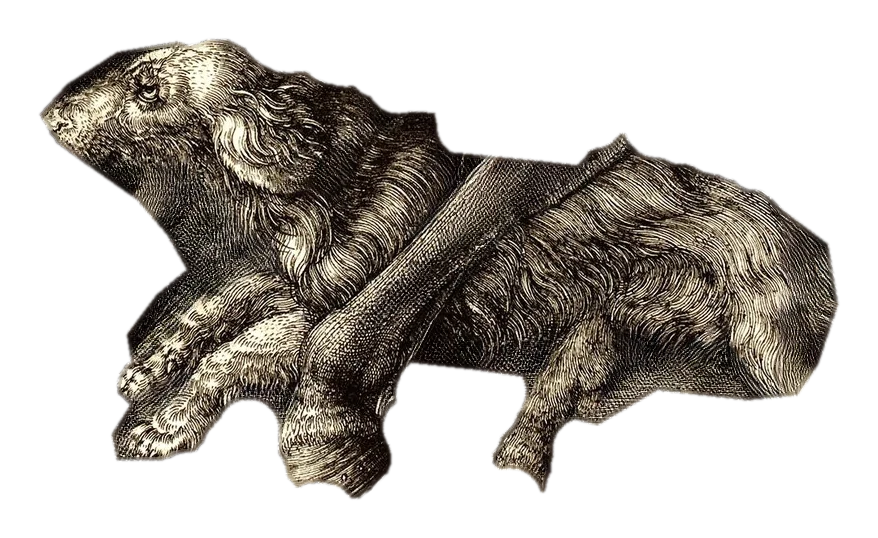
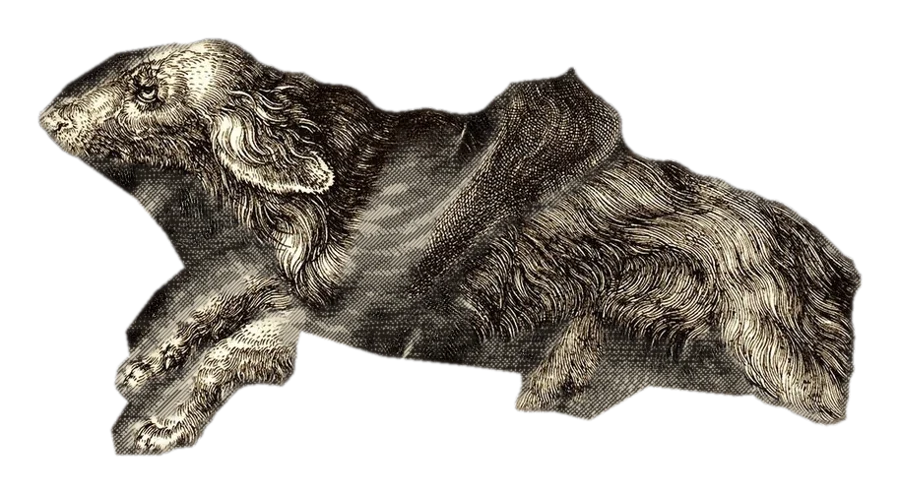
Figures always stand in front of the painted relief; per-painting ground line; sleeping painted animals stay on the deepening relief; camera never shows the picture edge; complete hound (leg occluder, two-part segmentation), engraved re-hatching of inpainted Dürer areas

diff --git a/js/gallery.js b/js/gallery.js
@@ -199,11 +199,12 @@ export class Gallery {
       const a = new Character(sprite, { height: hh, headSide: host.faces });
       a.shadow.visible = false;
       this.paintGroup.add(a.group); this.paintGroup.add(a.shadow);
-      const home = this.paintPoint((bx0 + bx1) / 2 / W, 1 - by1 / H, 0.004);
+      const homeUV = [(bx0 + bx1) / 2 / W, 1 - by1 / H];
+      const home = this.paintPoint(homeUV[0], homeUV[1], 0.004);
       a.position.copy(home);
       a.setDir(host.faces === 'right' ? 1 : -1, true);
       a.mesh.renderOrder = 3;
-      this.hosts.push({ actor: a, host, meta, home, awake: false, away: false, next: rand(2, 5), patch: null });
+      this.hosts.push({ actor: a, host, meta, home, homeUV, awake: false, away: false, next: rand(2, 5), patch: null });
     }
 
     // ---- loop --------------------------------------------------------------
@@ -325,7 +326,12 @@ export class Gallery {
     want.y = THREE.MathUtils.clamp(want.y, cy - Math.max(0, this.ph / 2 * 0.92 - halfH), cy + Math.max(0, this.ph / 2 * 0.92 - halfH));
     want.x += px.x * 0.04; want.y += px.y * 0.03;                     // a touch of head parallax
     cam.position.lerp(want, 0.08);
-    this.lookAtPt = (this.lookAtPt || T.clone()).lerp(new THREE.Vector3(T.x, T.y, T.z - 0.15), 0.12);
+    // look at the animal, but never tilt so far that the edge of the picture shows
+    const lyMin = cy - this.ph / 2 + halfH * 0.95, lyMax = cy + this.ph / 2 - halfH * 0.95;
+    const ly = lyMin < lyMax ? THREE.MathUtils.clamp(T.y, lyMin, lyMax) : cy;
+    const lxMin = cx - this.pw / 2 + halfW * 0.95, lxMax = cx + this.pw / 2 - halfW * 0.95;
+    const lx = lxMin < lxMax ? THREE.MathUtils.clamp(T.x, lxMin, lxMax) : cx;
+    this.lookAtPt = (this.lookAtPt || T.clone()).lerp(new THREE.Vector3(lx, ly, T.z - 0.15), 0.12);
     cam.lookAt(this.lookAtPt);
   }
 
@@ -402,6 +408,7 @@ export class Gallery {
     this.revealGround(h);
     h.actor.ground = (x, z) => this.groundY(z);
     h.actor.shadow.visible = true;
+    h.actor.walkTo(this.spot(h.actor.position.x, h.actor.position.z + 0.1, h.actor), 0.35);
   }
   async hostsRefuse() {}
 
@@ -429,7 +436,14 @@ export class Gallery {
     const h0 = v.height, ref = this.hosts.find(h => !h.host.inPlace)?.actor.height ?? this.ph * 0.15;
     const h1 = Math.max(0.1, Math.min(Math.max(ref * 0.9, this.ph * 0.1), this.ph * 0.15));   // the size of the painted animals
     // keep walking forward, into the depth of the picture (away from you)
-    const inside = new THREE.Vector3(-0.1, this.groundY(-0.22), -0.22);
+    // the deepest place the painting lets you reach (measured on the relief as it will be inside)
+    const keep = this.paintU.uDepth.value, hNow = v.height; this.paintU.uDepth.value = depth1; v.setHeight(h1);
+    let inside = null;
+    for (const tx of [-0.1, 0.1, -0.3, 0.3, -0.5, 0.5]) {
+      const sp = this.spot(tx, -0.3, v);
+      if (!inside || sp.z < inside.z - 0.03) inside = sp;
+    }
+    this.paintU.uDepth.value = keep; v.setHeight(hNow);
     v.walkTo(inside, 0.22);
     this.keyLight.intensity = 0;
     await this.tween(3.6, e => {
@@ -439,6 +453,7 @@ export class Gallery {
       this.paintGroup.position.z = -e * recede;
       v.setHeight(h0 + (h1 - h0) * e);
       this.keyLight.intensity = e * 1.6;
+      for (const h of this.hosts) if (!h.awake) h.actor.position.z = this.paintPoint(h.homeUV[0], h.homeUV[1], 0.004).z;
     });
     v.setPaintAll?.(1);
     this.paintU.uWind.value = 1;             // inside, the picture breathes
@@ -447,8 +462,29 @@ export class Gallery {
     await this.wait(1.5);
   }
 
+  // depth of the painted surface (the relief) at a point of the picture, in local units
+  surfaceZ(x, y) {
+    const u = THREE.MathUtils.clamp(x / this.pw + 0.5, 0, 1), v = THREE.MathUtils.clamp(y / this.ph + 0.5, 0, 1);
+    return this.paintPoint(u, v).z;
+  }
+  // a spot where a figure of width w and height h can stand at x, as deep as `zWant`
+  // but always in front of whatever is painted there (never inside the relief)
+  spot(x, zWant, a) {
+    const w = this.widthOf(a), h = a.height;
+    x = THREE.MathUtils.clamp(x, -this.pw / 2 + w / 2 + 0.04, this.pw / 2 - w / 2 - 0.04);
+    let z = zWant;
+    for (let pass = 0; pass < 3; pass++) {
+      const y = this.groundY(z);
+      let front = -1e9;
+      for (const fx of [-0.45, 0, 0.45]) for (const fy of [0.05, 0.5, 0.95]) front = Math.max(front, this.surfaceZ(x + fx * w, y + fy * h));
+      z = Math.max(z, front + 0.05);
+    }
+    z = Math.min(z, 0.45);
+    return new THREE.Vector3(x, this.groundY(z), z);
+  }
+
   // a believable "ground" inside the picture: further back is higher up
-  groundY(z) { return -this.ph / 2 + this.ph * 0.22 + (0.4 - z) * 0.22; }
+  groundY(z) { const [g0, rise] = this.o.work.ground || [0.2, 0.22]; return -this.ph / 2 + this.ph * g0 + (0.4 - z) * rise; }
   randomGround() {
     const z = rand(-this.paintU.uDepth.value * 0.55, 0.4);
     return new THREE.Vector3(rand(-this.pw / 2 + 0.25, this.pw / 2 - 0.25), this.groundY(z), z);
@@ -477,7 +513,7 @@ export class Gallery {
       // side by side on the same ground, just a little in front of / behind in turn (no floating)
       const tz = THREE.MathUtils.clamp(vp.z + (k % 2 ? 0.07 : -0.07), -this.paintU.uDepth.value * 0.6, 0.42);
       tx = THREE.MathUtils.clamp(tx, -this.pw / 2 + w / 2, this.pw / 2 - w / 2);
-      const target = new THREE.Vector3(tx, this.groundY(tz), tz);
+      const target = this.spot(tx, tz, a);
       const d = target.distanceTo(a.position);
       if (d > 0.12 && (!a.target || a.target.distanceTo(target) > 0.18)) { h.placed = false; a.walkTo(target, d > 0.7 ? 0.9 : 0.4, { run: d > 0.7 }).then(() => { h.placed = true; }); }
       else if (!a.target) h.placed = true;
@@ -509,9 +545,8 @@ export class Gallery {
     const v = this.visitor, a = h.actor, vp = v.position.clone();
     const side = Math.sign(a.position.x - vp.x) || 1, gap = (this.widthOf(v) + this.widthOf(a)) / 2 + 0.1;
     const mid = vp.clone().lerp(a.position, 0.35);
-    const vT = new THREE.Vector3(mid.x - side * gap * 0.5, 0, THREE.MathUtils.clamp(mid.z, -this.paintU.uDepth.value * 0.5, 0.42));
-    vT.y = this.groundY(vT.z);
-    const aT = new THREE.Vector3(vT.x + side * gap, 0, vT.z - 0.04); aT.y = this.groundY(aT.z);
+    const vT = this.spot(mid.x - side * gap * 0.5, mid.z, v);
+    const aT = this.spot(vT.x + side * gap, vT.z - 0.04, a);
     h.meeting = true;
     await Promise.all([v.walkTo(vT, 0.35), a.walkTo(aT, 0.35)]);
     a.lastFlip = -9; a.setDir(-side); v.setDir(side);
@@ -527,10 +562,10 @@ export class Gallery {
     const z = THREE.MathUtils.clamp(vp.z - 0.35, -this.paintU.uDepth.value * 0.5, 0.4);
     const x = THREE.MathUtils.clamp(vp.x + (vp.x > 0 ? -0.5 : 0.5), -this.pw / 2 + 0.25, this.pw / 2 - 0.25);
     h.called = true;
-    const dest = new THREE.Vector3(x, this.groundY(z), z);
+    const dest = this.spot(x, z, h.actor);
     const go = h.actor.walkTo(dest, 0.35);
     await this.wait(0.7);
-    const follow = dest.clone(); follow.x += vp.x > x ? 0.3 : -0.3; follow.z += 0.12; follow.y = this.groundY(follow.z);
+    const follow = this.spot(dest.x + (vp.x > x ? 1 : -1) * (this.widthOf(h.actor) + this.widthOf(this.visitor)) / 2 * 1.2, dest.z + 0.08, this.visitor);
     await Promise.all([go, this.visitor.walkTo(follow, 0.35)]);
     h.actor.setDir(Math.sign(this.visitor.position.x - h.actor.position.x) || 1);
     h.called = false;
@@ -556,16 +591,16 @@ export class Gallery {
     const local = this.paintGroup.worldToLocal(hit.clone());
     local.x = THREE.MathUtils.clamp(local.x, -this.pw / 2 + 0.2, this.pw / 2 - 0.2);
     local.z = THREE.MathUtils.clamp(local.z, -this.paintU.uDepth.value * 0.6, 0.45);
-    local.y = this.groundY(local.z);
-    this.visitor.walkTo(local, 0.55, { run: local.distanceTo(this.visitor.position) > 0.8 });
+    const dest = this.spot(local.x, local.z, this.visitor);
+    this.visitor.walkTo(dest, 0.55, { run: dest.distanceTo(this.visitor.position) > 0.8 });
   }
   // call a painted animal: it comes to the visitor
   async callHost(i) {
     const h = this.hosts[i];
     if (!h || h.host.inPlace) { h?.actor.nod(2); return; }
     h.called = true;
-    const p = this.visitor.position.clone();
-    p.x += p.x > 0 ? -0.3 : 0.3; p.y = this.groundY(p.z);
+    const vp0 = this.visitor.position;
+    const p = this.spot(vp0.x + (vp0.x > 0 ? -1 : 1) * (this.widthOf(this.visitor) + this.widthOf(h.actor)) / 2 * 1.2, vp0.z, h.actor);
     await h.actor.walkTo(p, 0.8, { run: true });
     h.actor.setDir(Math.sign(this.visitor.position.x - p.x) || 1);
     h.actor.nod(2);

diff --git a/js/data.js b/js/data.js
@@ -11,6 +11,7 @@ export const WORKS = [
     size: [2400, 1550], realWidth: 2.3,
     hosts: ['eden-lion', 'eden-horse', 'eden-deer', 'eden-rabbit', 'eden-dog', 'eden-peacock'],
     kinds: ['lion', 'tiger', 'horse', 'deer', 'dog', 'cat', 'rabbit', 'cattle', 'bird'],   // animal kinds painted in it
+    ground: [0.2, 0.22],      // where the painted ground is: height (fraction of the picture) at the front, rise with depth
     wall: 0x2a2622,
   },
   {
@@ -21,6 +22,7 @@ export const WORKS = [
     size: [1847, 2400], realWidth: 1.45,
     hosts: ['durer-horse', 'durer-dog'],
     kinds: ['horse', 'dog'],
+    ground: [0.035, 0.08],    // the road runs along the bottom edge
     wall: 0x24231f,
   },
   {
@@ -31,6 +33,7 @@ export const WORKS = [
     size: [2385, 1783], realWidth: 2.4,
     hosts: ['marc-deer', 'marc-boar'],
     kinds: ['deer'],
+    ground: [0.06, 0.14],
     wall: 0x22252a,
   },
 ];

diff --git a/js/strings.js b/js/strings.js
@@ -219,6 +219,7 @@ export const STRINGS = {
     openShy: 'Oh! Um… hello. Nobody has ever walked in here before.',
     openSorry: 'Hello! I’m {name}. I’m sorry, I didn’t mean to scare you.',
     openWhisper: 'Is it… friendly?',
+    openWhisperSolo: 'Are you… friendly?',
     openFriendly: 'Very friendly! I just wanted to see your world.',
     openFollow: 'Then come, I’ll show you around. Follow me!',
     openOkay: 'Okay, I’m right behind you!',

diff --git a/js/app.js b/js/app.js
@@ -485,7 +485,7 @@ async function insideStory(g, tok) {
   await speak(0, t('insideStartled'));
   await speak(0, t('openShy'));
   await speak('visitor', t('openSorry'));
-  await speak(B, t('openWhisper'));
+  await speak(B, t(H > 1 ? 'openWhisper' : 'openWhisperSolo'));
   await speak('visitor', t('openFriendly'));
   for (let i = 0; i < H; i++) { g.wakeHost(i); await sleep(400); }
   state.hostAwake = true;

diff --git a/tools/segment_hosts.py b/tools/segment_hosts.py
@@ -63,14 +63,18 @@ HOSTS = {
                       "neg": [[560, 750], [150, 1550], [1450, 950], [1000, 1950], [100, 2100]]},
     "durer-dog":     {"work": "durer", "box": [820, 1730, 1600, 2200], "close": 61,
                       "pos": [[920, 1800], [1080, 1880], [1110, 1990], [975, 2100], [1450, 1980], [1350, 1920]],
-                      "neg": [[910, 2010], [1200, 2000], [1150, 2150], [1330, 2180], [760, 1760]],
+                      "neg": [[910, 2010], [1150, 2150], [1330, 2180], [760, 1760]],
                       # the whole hound, traced by hand: SAM finds the visible fur, LaMa paints the rest inside this
                       "complete": [(853, 1830), (880, 1800), (930, 1768), (990, 1758), (1040, 1775), (1100, 1805), (1180, 1840),
                                    (1260, 1868), (1360, 1878), (1470, 1890), (1580, 1915), (1640, 1960), (1650, 2020), (1630, 2080),
                                    (1610, 2110), (1560, 2115), (1470, 2105), (1410, 2140), (1370, 2130), (1360, 2095), (1290, 2085),
                                    (1200, 2075), (1120, 2050), (1080, 2030), (1000, 2045), (975, 2085), (990, 2150), (975, 2175),
                                    (930, 2175), (925, 2150), (950, 2110), (940, 2050), (970, 2010), (1000, 1985), (980, 1950),
-                                   (950, 1915), (900, 1880), (870, 1858)]},
+                                   (950, 1915), (900, 1880), (870, 1858)],
+                      # the horse's front leg and a hoof lie across the hound: cut them out, repaint fur
+                      "occlude": [[(1222, 1838), (1282, 1852), (1182, 2110), (1122, 2098)]],
+                      # its back half reads as a separate shape to SAM: segment it on its own and join
+                      "parts": [{"box": [1270, 1850, 1680, 2130], "pos": [[1450, 1980], [1560, 2000], [1380, 1930]]}]},
     "marc-deer":     {"work": "marc", "box": [940, 690, 1460, 1720], "close": 15},
     "marc-boar":     {"work": "marc", "box": [60, 1120, 820, 1720], "close": 15},
 }
@@ -180,11 +184,15 @@ for hid in (sys.argv[1:] or HOSTS):
     if "clip" in h:                     # hand-traced outline limits the mask
         poly = np.zeros_like(mask); cv2.fillPoly(poly, [np.array(h["clip"], np.int32)], 255)
         mask = mask & cv2.dilate(poly, np.ones((5, 5), np.uint8))
+    for part in h.get("parts", []):     # animals SAM sees as several shapes: join the pieces
+        mask = mask | segment(img, {**h, "box": part["box"], "pos": part["pos"], "neg": part.get("neg", [])})
     if h.get("gc"): mask = grabcut_refine(arr, mask, h.get("pos", []))
-    # keep the largest blob; close small gaps (occluders) into the body
+    # keep the animal's pieces (an occluder can split it in two), drop small specks
     n, lab, st, _ = cv2.connectedComponentsWithStats(mask, 8)
     if n > 1:
-        big = 1 + np.argmax(st[1:, cv2.CC_STAT_AREA]); mask = np.where(lab == big, 255, 0).astype(np.uint8)
+        big = st[1:, cv2.CC_STAT_AREA].max()
+        keep = [i for i in range(1, n) if st[i, cv2.CC_STAT_AREA] >= big * 0.2]
+        mask = np.where(np.isin(lab, keep), 255, 0).astype(np.uint8)
     k = h["close"]
     closed = cv2.morphologyEx(mask, cv2.MORPH_CLOSE, cv2.getStructuringElement(cv2.MORPH_ELLIPSE, (k, k)))
     closed = cv2.morphologyEx(closed, cv2.MORPH_OPEN, np.ones((3, 3), np.uint8))
@@ -192,6 +200,9 @@ for hid in (sys.argv[1:] or HOSTS):
     ff = closed.copy(); hh, ww = ff.shape
     cv2.floodFill(ff, np.zeros((hh + 2, ww + 2), np.uint8), (0, 0), 255)
     closed = closed | cv2.bitwise_not(ff)
+    if "occlude" in h:                  # things painted in front of the animal: not part of it
+        for poly in h["occlude"]:
+            cv2.fillPoly(mask, [np.array(poly, np.int32)], 0)
     if "complete" in h:                 # hidden parts: the traced body becomes the outline
         poly = np.zeros_like(closed); cv2.fillPoly(poly, [np.array(h["complete"], np.int32)], 255)
         closed = closed | poly

diff --git a/tools/engrave_patch.py b/tools/engrave_patch.py
@@ -1,0 +1,72 @@
+"""Re-engrave inpainted areas of the Dürer engraving.
+
+LaMa fills hidden or emptied areas with soft, blurry tone, which looks wrong in an
+engraving where every tone is made of cut lines. This finds the pixels that differ
+from the original print (the repainted parts) and redraws their tone as fine hatching
+in Dürer's manner: parallel lines that follow a gentle curve, cross-hatching in the
+darks, and a little paper showing through.
+
+Usage: python tools/engrave_patch.py
+Updates assets/hosts/durer-*-patch.jpg and assets/hosts/durer-dog.(png|webp) in place.
+"""
+import json
+import numpy as np
+import cv2
+from PIL import Image
+
+HD = np.array(Image.open("assets/paintings/hd/knight-death-devil.jpg").convert("RGB")).astype(np.float32)
+meta = json.load(open("assets/hosts/hosts.json"))
+PAPER = np.array([229, 219, 196], np.float32)
+INK = np.array([34, 29, 24], np.float32)
+
+
+def hatch(lum, x0, y0):
+    """Engraved rendering of a luminance map (0..1), in painting coordinates."""
+    h, w = lum.shape
+    yy, xx = np.mgrid[0:h, 0:w].astype(np.float32)
+    X, Y = xx + x0, yy + y0
+    t = np.clip(lum, 0, 1) ** 0.9
+    wave = np.sin(X / 90.0) * 6                      # lines curve gently, like a burin following form
+    a = np.abs(((X + Y + wave) / 4.2) % 1 - 0.5) * 2
+    b = np.abs(((X - Y - wave + 5000) / 4.8) % 1 - 0.5) * 2
+    c = np.abs(((Y + wave * 0.5) / 5.5) % 1 - 0.5) * 2
+    ink = (a > 0.32 + t * 0.62).astype(np.float32)
+    ink = np.maximum(ink, ((t < 0.5) & (b > 0.42 + t * 1.0)).astype(np.float32))
+    ink = np.maximum(ink, ((t < 0.25) & (c > 0.5 + t * 1.6)).astype(np.float32))
+    ink = cv2.GaussianBlur(ink, (0, 0), 0.6)
+    return PAPER[None, None, :] * (1 - ink[..., None]) + INK[None, None, :] * ink[..., None]
+
+
+def reengrave(img, orig, x0, y0, extra_mask=None):
+    """Redraw only the pixels that were invented by inpainting."""
+    diff = np.abs(img.astype(np.float32) - orig).mean(-1)
+    m = (diff > 16).astype(np.uint8) * 255
+    if extra_mask is not None: m = m & extra_mask
+    m = cv2.morphologyEx(m, cv2.MORPH_OPEN, np.ones((3, 3), np.uint8))
+    m = cv2.dilate(m, np.ones((5, 5), np.uint8))
+    soft = cv2.GaussianBlur(m.astype(np.float32) / 255, (0, 0), 2.5)[..., None]
+    lum = cv2.GaussianBlur(img.astype(np.float32).mean(-1) / 255, (0, 0), 2.0)
+    lum = (lum - 0.1) / 0.8                          # stretch: the soft fill is low in contrast
+    out = img.astype(np.float32) * (1 - soft) + hatch(lum, x0, y0) * soft
+    return np.clip(out, 0, 255).astype(np.uint8), int((m > 0).sum())
+
+
+for hid, e in meta.items():
+    if e["work"] != "durer": continue
+    x0, y0, x1, y1 = e["box"]
+    orig = HD[y0:y1, x0:x1]
+    try:
+        patch = np.array(Image.open(f"assets/hosts/{hid}-patch.jpg").convert("RGB"))
+        out, n = reengrave(patch, orig, x0, y0)
+        Image.fromarray(out).save(f"assets/hosts/{hid}-patch.jpg", quality=90)
+        print(hid, "patch re-engraved px:", n)
+    except FileNotFoundError:
+        pass
+    # the sprite: re-engrave the parts of the body LaMa completed (inside the alpha)
+    spr = np.array(Image.open(f"assets/hosts/{hid}.png").convert("RGBA"))
+    a = (spr[..., 3] > 128).astype(np.uint8) * 255
+    out, n = reengrave(spr[..., :3], orig[:spr.shape[0], :spr.shape[1]], x0, y0, a)
+    spr[..., :3] = out
+    Image.fromarray(spr).save(f"assets/hosts/{hid}.png")
+    Image.fromarray(spr).save(f"assets/hosts/{hid}.webp", "WEBP", quality=88, method=6)
+    print(hid, "sprite re-engraved px:", n)
